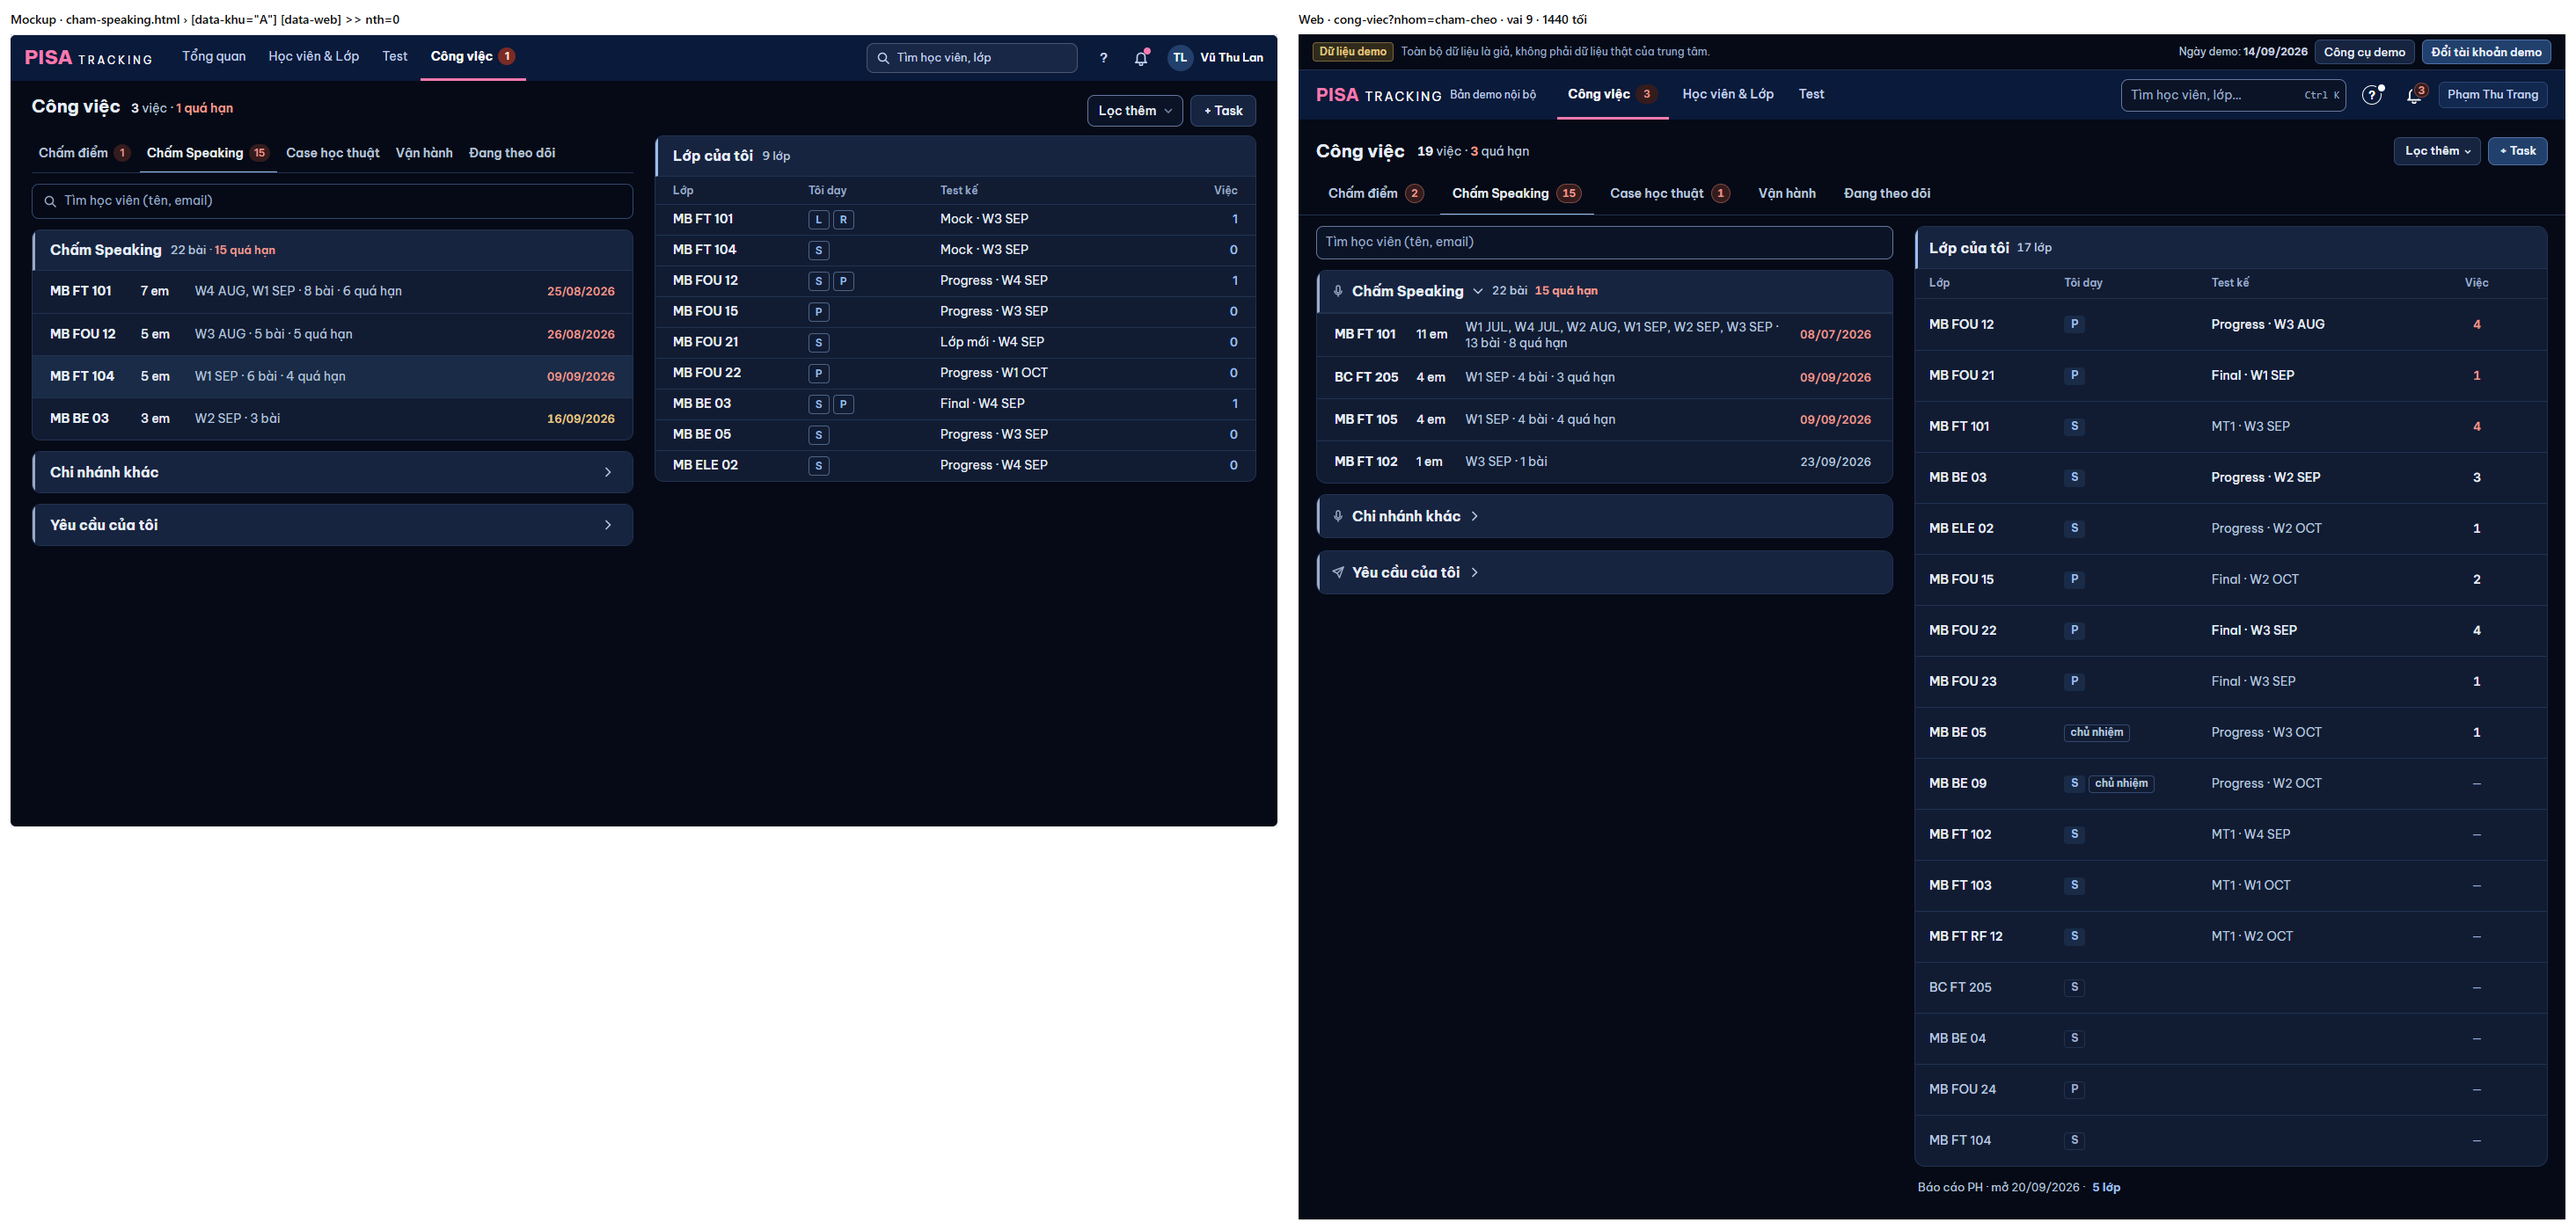
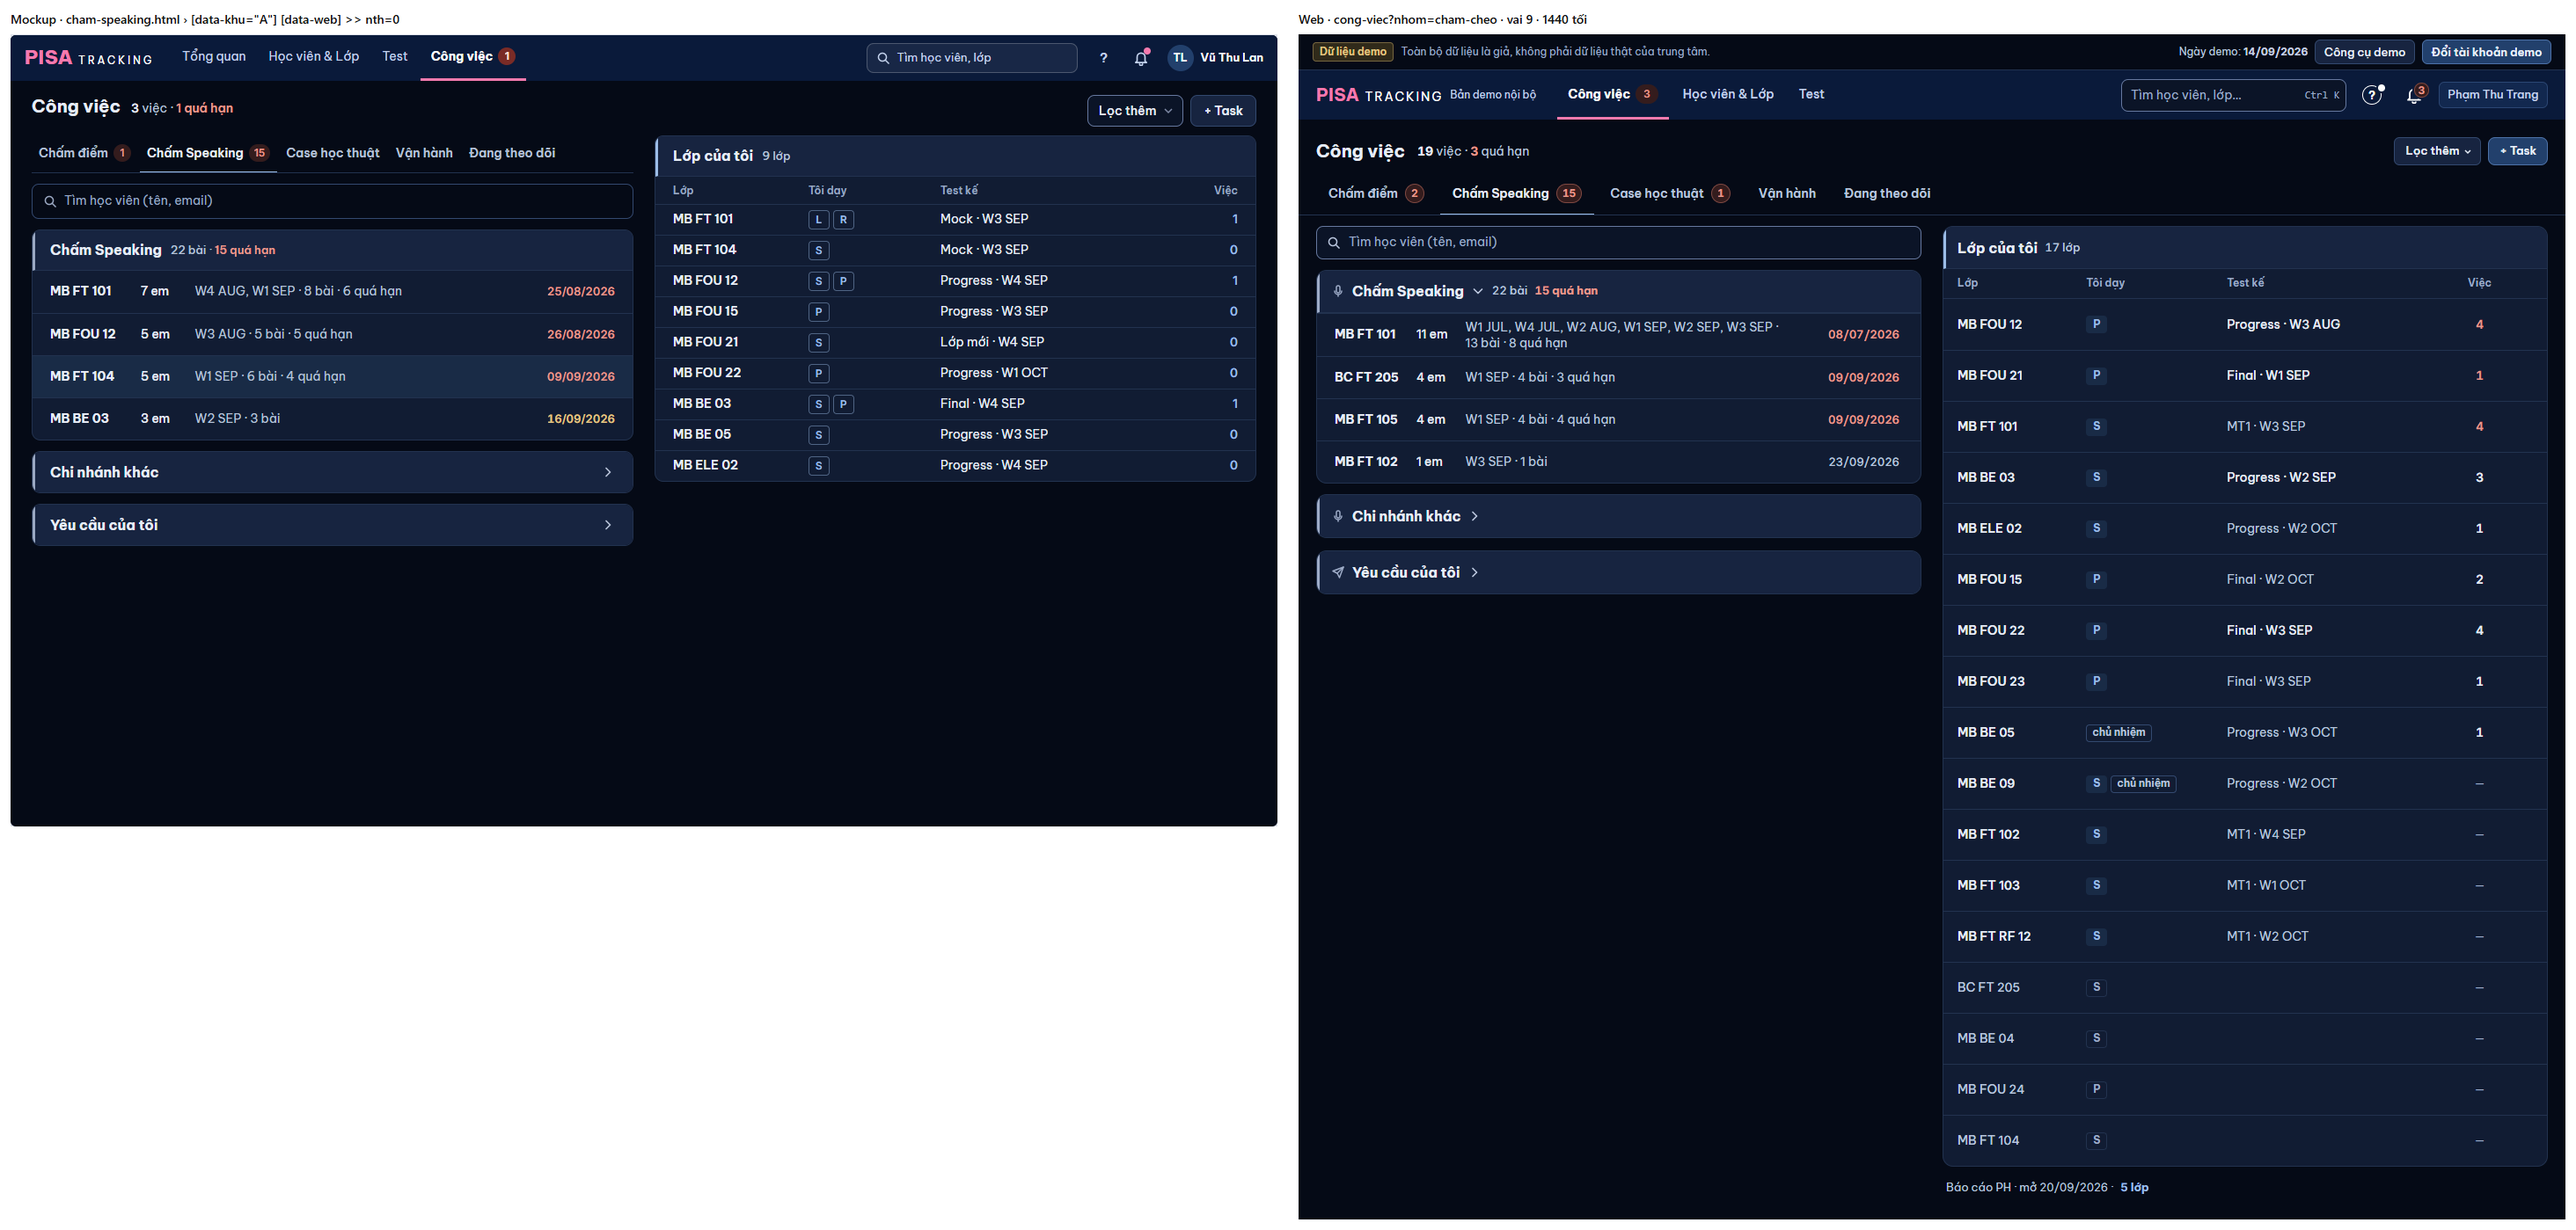
Chấm Speaking: số dính đơn vị, mã tuần không ngắt; panel nửa màn ở 1280

diff --git a/web/src/modules/congViec/HoTroHocVienTab.tsx b/web/src/modules/congViec/HoTroHocVienTab.tsx
@@ -1,4 +1,4 @@
-import { useEffect, useLayoutEffect, useMemo, useRef, useState, type ReactNode } from 'react';
+import { useEffect, useLayoutEffect, useMemo, useRef, useState, type CSSProperties, type ReactNode } from 'react';
 import { Link, useLocation, useNavigate, useSearchParams } from 'react-router-dom';
 import { useApi } from '../../lib/useApi.ts';
 import { api, invalidate, theHe } from '../../lib/api.ts';
@@ -732,7 +732,7 @@ export function HoTroHocVienTab() {
 
       {/* ───────────────────────────────────────────────── danh sách trái 540 px · panel phải dính (mockup `.bo-cuc`) */}
       {/* PANEL-GON (v24 `.cv`, chủ SP 24/11): panel MỘT khung 720 bám mép phải, danh sách trái min(680, 100vw − 760) không đè. Khuôn A: danh sách không co theo loại panel. */}
-      <div className={`lg:grid lg:items-start ${tab === 'duyet' ? 'lg:grid-cols-[minmax(0,1fr)]' /* CHO-DUYET-TAI-CHO (v24 H1): duyệt mở tại dòng — danh sách rộng hết khung, không cột panel */ : `${coPanel || coKhoiPhai ? (tab === 'cham-cheo' ? 'lg:grid-cols-[calc(50%-12px)_minmax(0,1fr)]' /* KHUÔN A Chấm Speaking (chủ SP 25/11): danh sách CỐ ĐỊNH một nửa bên trái */ : 'lg:grid-cols-[minmax(260px,1fr)_min(720px,calc(100vw-584px))]') /* HAI-BEN (chủ SP 25/11): hai cột CỐ ĐỊNH — ô phải 720 (1280: 696), danh sách phần còn lại; mở / đóng panel KHÔNG đổi bề rộng danh sách */ : ''} lg:gap-6`}`}>
+      <div style={tab === 'cham-cheo' ? ({ '--pn-w': '50vw' } as CSSProperties) : undefined} className={`lg:grid lg:items-start ${tab === 'duyet' ? 'lg:grid-cols-[minmax(0,1fr)]' /* CHO-DUYET-TAI-CHO (v24 H1): duyệt mở tại dòng — danh sách rộng hết khung, không cột panel */ : `${coPanel || coKhoiPhai ? (tab === 'cham-cheo' ? 'lg:grid-cols-[calc(50%-12px)_minmax(0,1fr)]' /* KHUÔN A Chấm Speaking (chủ SP 25/11): danh sách CỐ ĐỊNH một nửa bên trái */ : 'lg:grid-cols-[minmax(260px,1fr)_min(720px,calc(100vw-584px))]') /* HAI-BEN (chủ SP 25/11): hai cột CỐ ĐỊNH — ô phải 720 (1280: 696), danh sách phần còn lại; mở / đóng panel KHÔNG đổi bề rộng danh sách */ : ''} lg:gap-6`}`}>
         <div id="cv-tab-than" role={tab ? 'tabpanel' : undefined} aria-label={tab ? tenTab(tab) : undefined} className={`lg:isolate ${coPanel || coKhoiPhai ? 'lg:[container:cv-ds/inline-size]' : ''} ${anTrenDienThoai} ${xemLopHep ? 'max-lg:hidden' : ''} ${cu ? 'dang-tai-lai' : ''}`} aria-busy={cu || undefined}>
           {/* U01 #7 (khung A5): lọc "Đã xong hôm nay" — chỉ việc vừa xong trong phiên này, bấm dòng = Xem lại ở panel. */}
           {xemXong && dsXong.length > 0 && (

diff --git a/web/src/modules/congViec/ChamSpeakingMuc.tsx b/web/src/modules/congViec/ChamSpeakingMuc.tsx
@@ -2,6 +2,7 @@ import { type ReactNode, useMemo, useState } from 'react';
 import { useApi } from '../../lib/useApi.ts';
 import { Empty, ErrorState, Skeleton } from '../../ui/ui.tsx';
 import { t } from '@shared/i18n/index.ts';
+import { TinLop } from './TinLop.tsx';
 import { type DuLieu, type Lop, duongChamSpeaking, gom, hanSom, locQ, soCho, soQua, tuanCuaLop } from './chamSpeakingChung.ts';
 
 type Dai = { nhan: string; chip?: string; phu?: ReactNode; mo: boolean; onMo: () => void; dk?: string };
@@ -48,7 +49,8 @@ export function ChamSpeakingMuc({ nguoi, gv, stt, moSan, lopChon, onMo, veDai, h
     /* Tìm theo tên: cột "ai" ghi tên em khớp (A9); thông tin "n bài · tuần". Bình thường: "tuần · n bài · m quá hạn". */
     const ten = [...new Set(l.rows.filter((r) => r.cho).map((r) => r.studentName))].join(', ');
     const tuan = tuanCuaLop(l.rows);
-    const tin = (tim ? [t('{n} bài', { n: bai }), tuan] : [tuan, t('{n} bài', { n: bai }), qua ? `${qua} ${t('quá hạn')}` : '']).filter(Boolean).join(' · ');
+    const phan = (tim ? [t('{n} bài', { n: bai }), tuan] : [tuan, t('{n} bài', { n: bai }), qua ? `${qua} ${t('quá hạn')}` : '']).filter(Boolean);
+    const tin = phan.join(' · ');
     const dangChon = chonId === l.classId;
     const mo = () => onMo(l.classId);
     return (
@@ -61,7 +63,7 @@ export function ChamSpeakingMuc({ nguoi, gv, stt, moSan, lopChon, onMo, veDai, h
             </span>
             <span className="cvA-ct" title={tin}>
               {cn && l.branchName && <span className="mr-1.5 inline-flex h-[18px] items-center rounded-[5px] border px-1.5 align-[1px] text-xs font-semibold text-dim" style={{ borderColor: 'var(--line-strong)' }}>{l.branchName}</span>}
-              {tin}
+              <TinLop phan={phan} />
             </span>
             {han(hanSom(l.rows))}
           </div>

diff --git a/web/src/ui/KhungPanel.tsx b/web/src/ui/KhungPanel.tsx
@@ -490,7 +490,7 @@ export function KhungPanel({ tieuDe: tieuDeGoc, hocVien, lop, phu, rong: rongRie
         /* NHẸ HƠN (v23 P1) + PANEL-GON (v24): ≥ 1024 panel tại chỗ BÁM MÉP PHẢI từ ngay dưới thanh menu tới đáy, 720 px — danh sách trái (nơi gọi)
            vẫn thấy, bấm dòng khác = đổi việc. < 1024 giữ thẻ trong luồng trang (375 toàn màn). */
         style={{ '--pn-top': `${top}px` } as CSSProperties} data-pn={laBang ? 'bang' : 'viec'}
-        className={trongCot ? 'flex min-w-0 flex-col -outline-offset-2' : `card flex flex-col -outline-offset-2 max-sm:fixed max-sm:inset-0 max-sm:z-[60] max-sm:!m-0 max-sm:rounded-none max-sm:border-0 sm:max-lg:max-h-[calc(100dvh-8rem)] lg:fixed lg:!mt-0 lg:bottom-0 lg:right-0 lg:top-[var(--pn-top)] lg:z-30 lg:rounded-none lg:border-y-0 lg:border-r-0 lg:shadow-2xl lg:w-[720px] ${chan ? 'max-sm:overflow-visible sm:overflow-hidden' : 'overflow-hidden'}`}>
+        className={trongCot ? 'flex min-w-0 flex-col -outline-offset-2' : `card flex flex-col -outline-offset-2 max-sm:fixed max-sm:inset-0 max-sm:z-[60] max-sm:!m-0 max-sm:rounded-none max-sm:border-0 sm:max-lg:max-h-[calc(100dvh-8rem)] lg:fixed lg:!mt-0 lg:bottom-0 lg:right-0 lg:top-[var(--pn-top)] lg:z-30 lg:rounded-none lg:border-y-0 lg:border-r-0 lg:shadow-2xl lg:w-[min(720px,var(--pn-w,720px))] ${chan ? 'max-sm:overflow-visible sm:overflow-hidden' : 'overflow-hidden'}`}>
         <KhungTrongThe.Provider value={trongThe}><KhungTrongCot.Provider value={false}><KhungTaiCho.Provider value={false}><ThanTrongCot.Provider value={trongCot && !trongThe}>{voi(than)}</ThanTrongCot.Provider></KhungTaiCho.Provider></KhungTrongCot.Provider></KhungTrongThe.Provider>
       </section>
     );

diff --git a/web/src/modules/congViec/PanelChamSpeaking.tsx b/web/src/modules/congViec/PanelChamSpeaking.tsx
@@ -12,6 +12,7 @@ import { NutGvCham, useGvChamCot } from '../cham/GvCham.tsx';
 import type { NguoiChon } from '@shared/domain/index.ts';
 import { MuiTenGap } from '../yThuc/NhanViPham.tsx';
 import { t } from '@shared/i18n/index.ts';
+import { TinLop } from './TinLop.tsx';
 import { type Dong, type DuLieu, type Lop, duongChamSpeaking, gom, hanSom, lopKe, soCho, tuanCuaLop } from './chamSpeakingChung.ts';
 
 /**
@@ -60,7 +61,7 @@ export function PanelChamSpeaking({ onDong, onDaLam, lop: lopUrl = null, onLop =
     loai: t('Việc · Chấm Speaking'),
     /* Khuôn A: đầu panel ghi ĐỦ mã tuần như dòng danh sách ("W4 AUG, W1 SEP · 8 bài") + hạn sớm nhất. */
     /* Hết bài của lớp: "đã chấm n bài" (mockup A3), không hạn. */
-    dong2: hien ? [<b key="l" className="font-semibold text-slate-100">{hien.classCode}</b>, ...(tuan ? [tuan] : []), hetLop ? t('đã chấm {n} bài', { n: hien.rows.length }) : t('{n} bài', { n: soCho(hien.rows) })] : [],
+    dong2: hien ? [<b key="l" className="font-semibold text-slate-100">{hien.classCode}</b>, ...(tuan ? [<TinLop key="w" phan={[tuan]} />] : []), <TinLop key="n" phan={[hetLop ? t('đã chấm {n} bài', { n: hien.rows.length }) : t('{n} bài', { n: soCho(hien.rows) })]} />] : [],
     han: hien && !hetLop ? <ChipHan loai="nhap-diem" han={hanSom(hien.rows)} /> : null,
   };
   const tiep = onHet();

diff --git a/web/src/modules/congViec/TinLop.tsx b/web/src/modules/congViec/TinLop.tsx
@@ -1,0 +1,23 @@
+import { Fragment } from 'react';
+
+const LA_TUAN = /^W\d [A-Z]{3}(, W\d [A-Z]{3})*$/;
+const KHONG_NGAT = 'whitespace-nowrap';
+
+/**
+ * Thông tin dòng / đầu panel Chấm Speaking: số dính đơn vị ("13 bài", "8 quá hạn"), mỗi mã tuần một cụm — chỉ được xuống dòng sau ", " và " · "
+ * (PTA 25/11: không ngắt "13 / bài").
+ */
+export function TinLop({ phan }: { phan: readonly string[] }) {
+  return (
+    <>
+      {phan.filter(Boolean).map((p, i) => (
+        <Fragment key={i}>
+          {i > 0 && ' · '}
+          {LA_TUAN.test(p)
+            ? p.split(', ').map((w, j) => <Fragment key={j}>{j > 0 && ', '}<span className={KHONG_NGAT}>{w}</span></Fragment>)
+            : <span className={KHONG_NGAT}>{p}</span>}
+        </Fragment>
+      ))}
+    </>
+  );
+}
